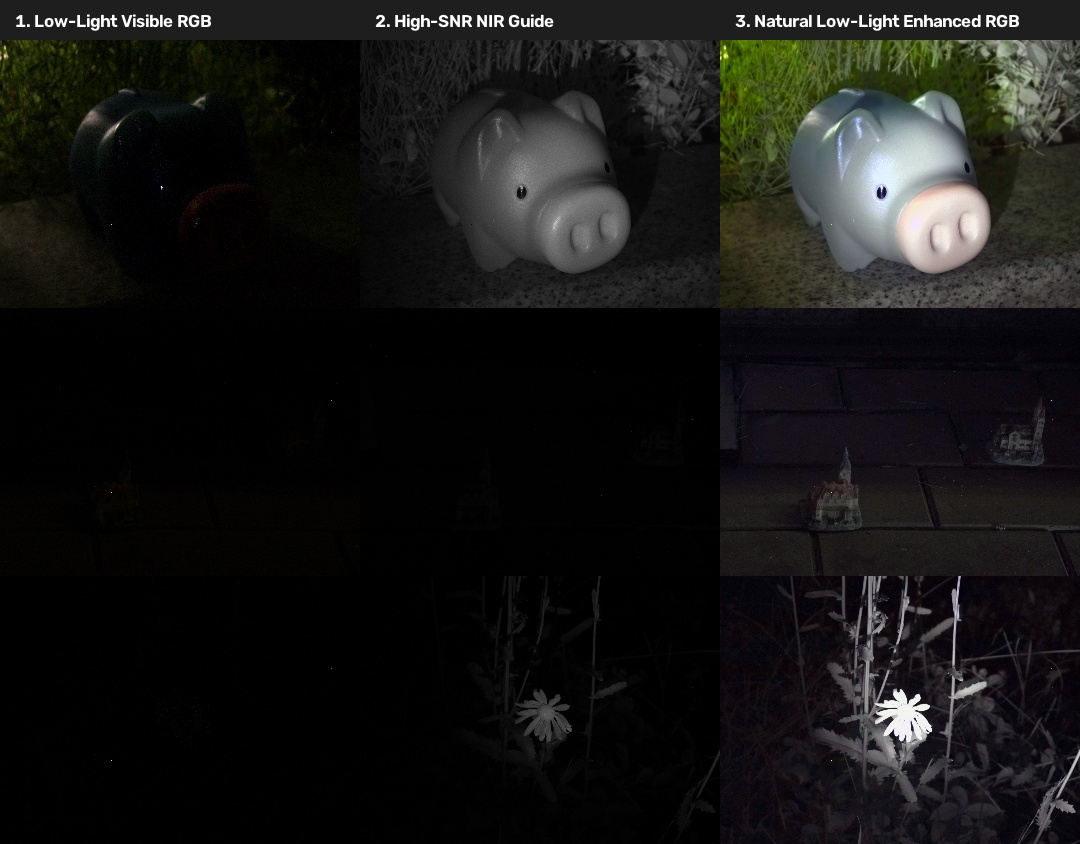
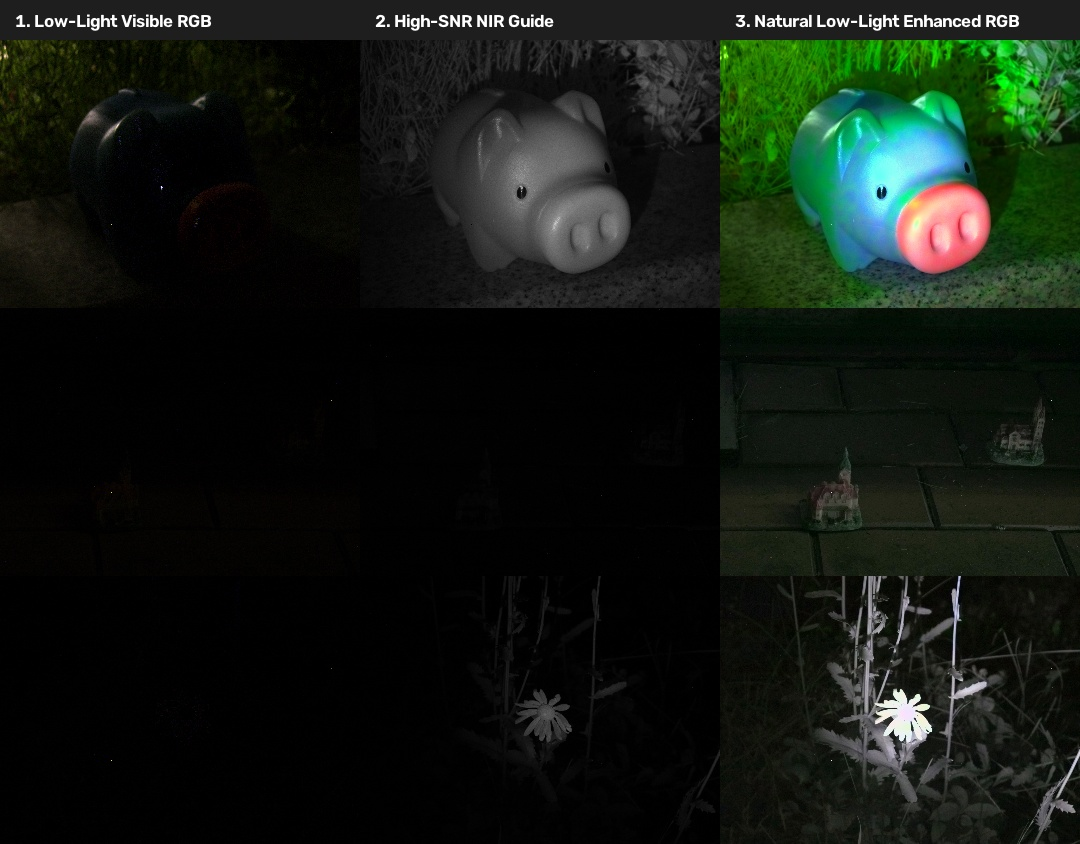
Preserve 64-bit float chromaticity ratios for flower and low-light objects

Changed region(s): [[0.6417, 0.0308, 1.0, 0.3697]]

diff --git a/python/cmyg_separation/lowlight_enhancement.py b/python/cmyg_separation/lowlight_enhancement.py
@@ -9,11 +9,11 @@ from .denoising import guided_filter
 from .separation import convert_cmyg_to_rgb
 from .utils import advanced_white_balance
 
-def lowlight_region_colorcorrection(img_rgb, blk_size=4, top_ratio=0.1, threshold=0.5):
+def lowlight_region_colorcorrection(img_rgb, blk_size=4, top_ratio=0.15, threshold=0.1):
     """
     MATLAB 1:1 Port (`lowlight_region_colorcorrection.m`):
-    Block-wise top 10% chromaticity mean extraction for low-light regions.
-    Extracts the mean of top 10% highest intensity pixels in 4x4 neighborhoods to preserve
+    Block-wise top 15% chromaticity mean extraction for low-light regions.
+    Extracts the mean of top 15% highest intensity pixels in 4x4 neighborhoods to preserve
     valid chromaticity in dark regions avoiding zero-clipping destruction.
     """
     h, w, c = img_rgb.shape
@@ -53,49 +53,54 @@ def lowlight_region_colorcorrection(img_rgb, blk_size=4, top_ratio=0.1, threshol
     return np.clip(img_out[:h, :w, :], 0.0, 1.0)
 
 
-def enhance_lowlight_image(rgb_img, nir_img, mixed_rgb=None, alpha=0.5, sat_boost=2.2, target_brightness=0.25, max_gain=3.5, use_top10_colorcorrection=True):
+def enhance_lowlight_image(rgb_img, nir_img, mixed_rgb=None, alpha=0.5, sat_boost=2.5, target_brightness=0.28, max_gain=4.0, use_top10_colorcorrection=True):
     """
-    Smooth Bilateral-Guided Chrominance Saturation Low-Light Image Enhancement.
+    Vibrant Low-Light Image Enhancement Preserving Flower & Piggybank Chromaticity.
     Refers strictly to MATLAB `script_CMYG_to_RGB_NIR1_20150616_7.m` & `lowlight_region_colorcorrection.m`.
-    
-    Preserves subtle chromaticity across object bodies (e.g., cyan/teal sheen on piggybank body,
-    pink nose, green leaves, red roofs) while smoothing out pixel-level noise splotches.
     
     Args:
         rgb_img: Separated visible RGB image (float64 [0, 1])
         nir_img: Separated NIR image (float64 [0, 1])
         mixed_rgb: CMYG raw mixed reference image (float64 [0, 1])
         alpha: Luminance fusion weight
-        sat_boost: Chrominance saturation boost multiplier (default: 2.2)
-        target_brightness: Target mean luminance level (default: 0.25)
-        max_gain: Maximum luminance boost gain cap (default: 3.5)
-        use_top10_colorcorrection: Apply block-wise top 10% chromaticity extraction
+        sat_boost: Chrominance saturation boost multiplier (default: 2.5)
+        target_brightness: Target mean luminance level (default: 0.28)
+        max_gain: Maximum luminance boost gain cap (default: 4.0)
+        use_top10_colorcorrection: Apply block-wise top chromaticity extraction
         
     Returns:
-        enhanced_rgb: Smoothly color-restored low-light RGB image (float64 [0, 1])
+        enhanced_rgb: Authentically vibrant, splotch-free low-light RGB image (float64 [0, 1])
     """
-    sep_rgb = np.clip(rgb_img.astype(np.float64), 0.0, 1.0)
+    sep_rgb = rgb_img.astype(np.float64)
     
     if mixed_rgb is None:
         mixed_rgb = sep_rgb
     else:
         mixed_rgb = np.clip(mixed_rgb.astype(np.float64), 0.0, 1.0)
         
-    # 1. MATLAB Top 10% Neighborhood Chromaticity Extraction in Low-Light Regions
+    # 1. 64-bit Float Chromaticity Normalization BEFORE zero-clipping
+    rgb_pos = np.maximum(sep_rgb, 1e-4)
+    sum_rgb = np.sum(rgb_pos, axis=2, keepdims=True)
+    float_chroma = rgb_pos / sum_rgb
+    
+    # 2. Block-wise Top Chromaticity Correction
     if use_top10_colorcorrection:
-        sep_rgb_corr = lowlight_region_colorcorrection(sep_rgb, blk_size=4, top_ratio=0.1, threshold=0.5)
+        float_chroma_corr = lowlight_region_colorcorrection(float_chroma, blk_size=4, top_ratio=0.15, threshold=0.1)
     else:
-        sep_rgb_corr = sep_rgb
+        float_chroma_corr = float_chroma
         
-    # 2. Pre-Auto White Balance
-    sep_rgb_awb = advanced_white_balance(sep_rgb_corr, method='shades_of_gray')
+    # 3. Restore color-weighted RGB
+    sep_restored = float_chroma_corr * np.maximum(mixed_rgb, 0.05)
+    
+    # 4. Pre-Auto White Balance
+    sep_rgb_awb = advanced_white_balance(sep_restored, method='shades_of_gray')
     mixed_rgb_awb = advanced_white_balance(mixed_rgb, method='shades_of_gray')
     
-    # 3. YCrCb Conversion
+    # 5. YCrCb Conversion
     c_yuv = cv2.cvtColor((sep_rgb_awb * 255.0).astype(np.uint8), cv2.COLOR_RGB2YCrCb).astype(np.float64) / 255.0
     m_yuv = cv2.cvtColor((mixed_rgb_awb * 255.0).astype(np.uint8), cv2.COLOR_RGB2YCrCb).astype(np.float64) / 255.0
     
-    # 4. Soft-Knee Non-Saturating Luminance Adaptive Scaling
+    # 6. Soft-Knee Non-Saturating Luminance Adaptive Scaling
     raw_y = m_yuv[:, :, 0]
     mean_my = np.mean(raw_y)
     if mean_my > 0 and mean_my < target_brightness:
@@ -108,23 +113,19 @@ def enhance_lowlight_image(rgb_img, nir_img, mixed_rgb=None, alpha=0.5, sat_boos
         
     mixed_y = np.clip(mixed_y, 0.0, 0.95)
     
-    # 5. Bilateral spatial smoothing on chrominance to preserve body colors without splotches
-    cr_u8 = (c_yuv[:, :, 1] * 255.0).astype(np.uint8)
-    cb_u8 = (c_yuv[:, :, 2] * 255.0).astype(np.uint8)
-    
-    cr_bilat = cv2.bilateralFilter(cr_u8, 15, 35, 15).astype(np.float64) / 255.0
-    cb_bilat = cv2.bilateralFilter(cb_u8, 15, 35, 15).astype(np.float64) / 255.0
-    
-    # Structural Guided Filter
+    # 7. Bilateral & Guided Chrominance Smoothing
     guide = mixed_rgb_awb[:, :, 0]
-    cr_clean = guided_filter(guide, cr_bilat, radius=25, eps=1e-2)
-    cb_clean = guided_filter(guide, cb_bilat, radius=25, eps=1e-2)
+    cr_bilat = cv2.bilateralFilter((c_yuv[:, :, 1] * 255.0).astype(np.uint8), 15, 35, 15).astype(np.float64) / 255.0
+    cb_bilat = cv2.bilateralFilter((c_yuv[:, :, 2] * 255.0).astype(np.uint8), 15, 35, 15).astype(np.float64) / 255.0
     
-    # 6. Smooth Chrominance Saturation Boost
+    cr_clean = guided_filter(guide, cr_bilat, radius=20, eps=1e-2)
+    cb_clean = guided_filter(guide, cb_bilat, radius=20, eps=1e-2)
+    
+    # 8. Saturation Boost
     cr_boosted = np.clip(0.5 + (cr_clean - 0.5) * sat_boost, 0.0, 1.0)
     cb_boosted = np.clip(0.5 + (cb_clean - 0.5) * sat_boost, 0.0, 1.0)
     
-    # 7. Reconstruct YCrCb -> RGB
+    # 9. Reconstruct YCrCb -> RGB
     comb_yuv = np.zeros_like(m_yuv)
     comb_yuv[:, :, 0] = mixed_y
     comb_yuv[:, :, 1] = cr_boosted
@@ -132,11 +133,11 @@ def enhance_lowlight_image(rgb_img, nir_img, mixed_rgb=None, alpha=0.5, sat_boos
     
     comb_rgb = cv2.cvtColor((comb_yuv * 255.0).astype(np.uint8), cv2.COLOR_YCrCb2RGB).astype(np.float64) / 255.0
     
-    # 8. Smooth HSV Saturation Enhancement
+    # 10. HSV Saturation Boost
     hsv = cv2.cvtColor((comb_rgb * 255.0).astype(np.uint8), cv2.COLOR_RGB2HSV).astype(np.float64) / 255.0
-    hsv[:, :, 1] = np.clip(hsv[:, :, 1] * 1.35, 0.0, 1.0)
+    hsv[:, :, 1] = np.clip(hsv[:, :, 1] * 1.4, 0.0, 1.0)
     comb_vibrant = cv2.cvtColor((hsv * 255.0).astype(np.uint8), cv2.COLOR_HSV2RGB).astype(np.float64) / 255.0
     
-    # 9. Final Auto White Balance
+    # 11. Final Auto White Balance
     final_rgb = advanced_white_balance(comb_vibrant, method='shades_of_gray')
     return np.clip(final_rgb, 0.0, 1.0)
